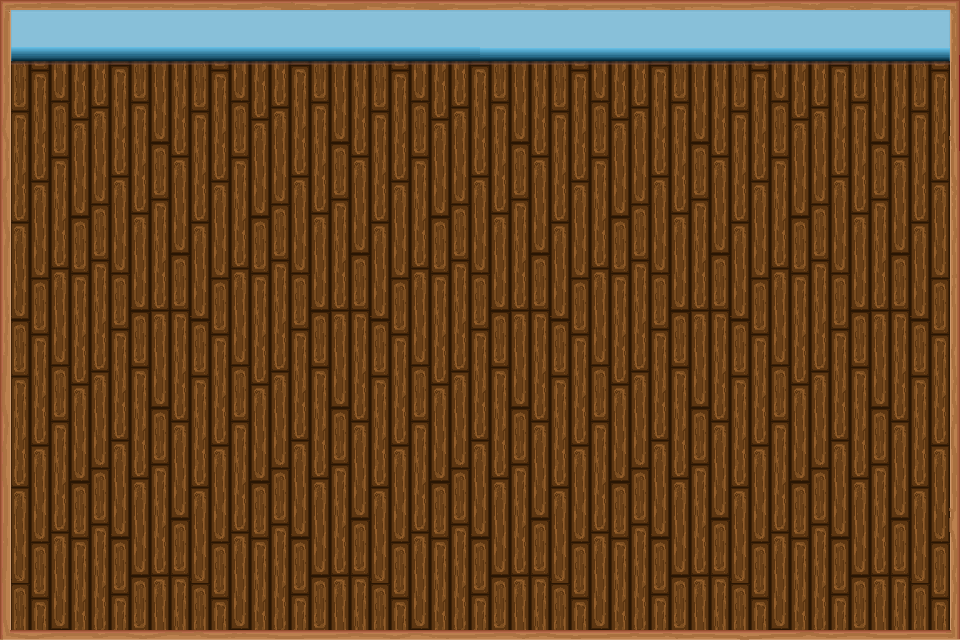
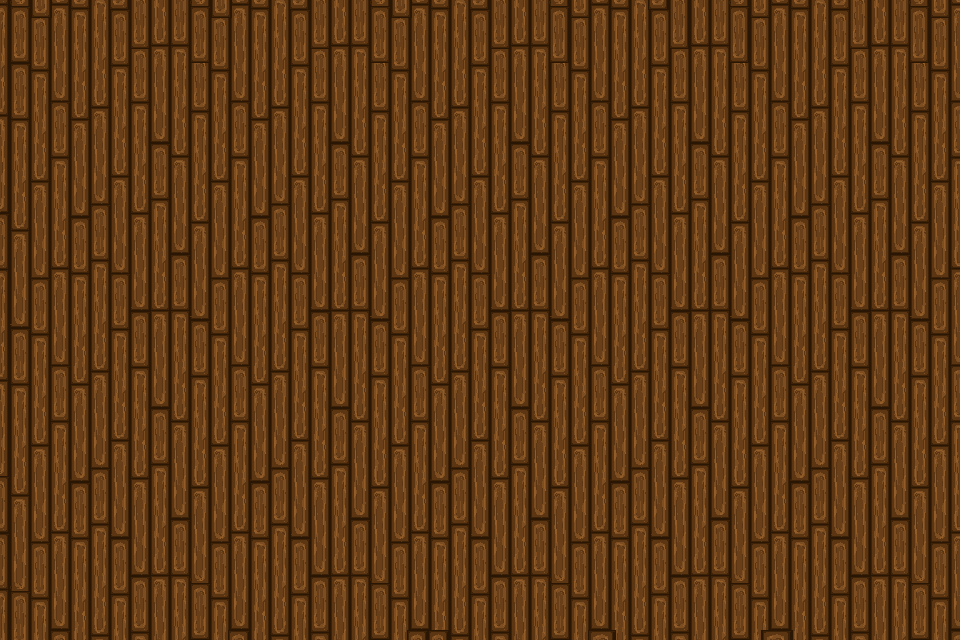
I fixed the background image, and added a background to the second room.

Changed region(s): [[0.0, 0.0, 1.0, 1.0]]

diff --git a/js/captain_cool.js b/js/captain_cool.js
@@ -80,7 +80,7 @@ var lwall = new Obstacle(gameInstance,20,150,400,100);
 //
 var testLevel = new Level(gameInstance,1);
 var testScreen = new Screen(testLevel,1,'img/background.png','image');
-var testScreen2 = new Screen(testLevel,2,'grey','color');
+var testScreen2 = new Screen(testLevel,2,'img/background.png','image');
 var testDoor = new Door(testScreen, 10, 150, 950, 250,testScreen2, testScreen2.color,['location',15,300]);
 var testDoor2 = new Door(testScreen2, 10, 150, 0, 250,testScreen, testScreen.color,['location',900,300]);
 
